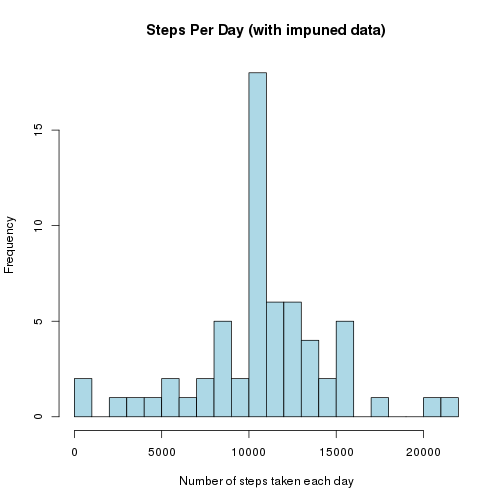
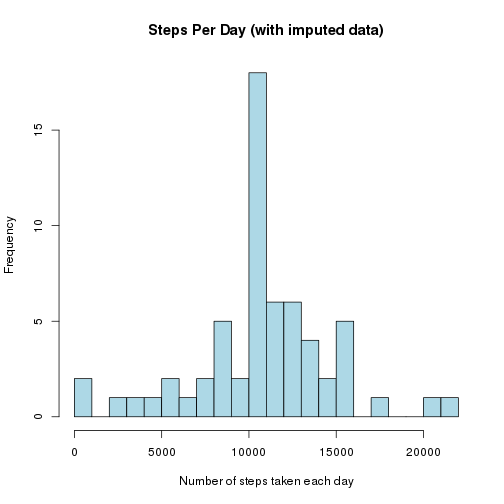
Fix typo

Changed region(s): [[0.2976, 0.0298, 0.7738, 0.0893]]

diff --git a/PA1_template.html b/PA1_template.html
@@ -265,39 +265,39 @@ plot(mean_melted_data$interval, mean_melted_data$steps, type=&quot;l&quot;,
 
 <p>I have chosen to use the previously-created mean_melted_data to fill in empty values. Each empty value will be filled in with the average value for that interval.</p>
 
-<pre><code class="r">activity_data_impuned &lt;- activity_data
-for (i in which(is.na(activity_data_impuned$steps)))
-  activity_data_impuned[i, 1] &lt;-
-    mean_melted_data[which(mean_melted_data[,1]==activity_data_impuned[i,3]),2]
+<pre><code class="r">activity_data_imputed &lt;- activity_data
+for (i in which(is.na(activity_data_imputed$steps)))
+  activity_data_imputed[i, 1] &lt;-
+    mean_melted_data[which(mean_melted_data[,1]==activity_data_imputed[i,3]),2]
 </code></pre>
 
-<pre><code class="r">melted_activity_data_impuned &lt;- melt(activity_data_impuned, id=c(&quot;date&quot;),
+<pre><code class="r">melted_activity_data_imputed &lt;- melt(activity_data_imputed, id=c(&quot;date&quot;),
                              measure.vars=(&quot;steps&quot;))
-sum_melted_data_impuned &lt;- dcast(melted_activity_data_impuned, date~variable, sum)
-hist(sum_melted_data_impuned$steps, breaks=25, main=&quot;Steps Per Day (with impuned data)&quot;,
+sum_melted_data_imputed &lt;- dcast(melted_activity_data_imputed, date~variable, sum)
+hist(sum_melted_data_imputed$steps, breaks=25, main=&quot;Steps Per Day (with imputed data)&quot;,
      xlab=&quot;Number of steps taken each day&quot;, col=&quot;lightblue&quot;)
 </code></pre>
 
[2 lines of base64/hex data omitted]
 
-<pre><code class="r">steps_per_day_mean_impuned &lt;- format(mean(sum_melted_data_impuned$steps), digits=8)
-steps_per_day_median_impuned &lt;- format(median(sum_melted_data_impuned$steps), digits=8)
+<pre><code class="r">steps_per_day_mean_imputed &lt;- format(mean(sum_melted_data_imputed$steps), digits=8)
+steps_per_day_median_imputed &lt;- format(median(sum_melted_data_imputed$steps), digits=8)
 </code></pre>
 
 <p>Mean of the total number of steps taken per day: 10766.189</p>
 
 <p>Median of the total number of steps taken per day: 10766.189</p>
 
-<p>By adding impuned data, the mean number of steps per day remained the same, while the median became equal to the mean.</p>
+<p>By adding imputed data, the mean number of steps per day remained the same, while the median became equal to the mean.</p>
 
 <h2>Are there differences in activity patterns between weekdays and weekends?</h2>
 
 <p>Create a new factor variable in the dataset with two levels – “weekday” and “weekend” indicating whether a given date is a weekday or weekend day.</p>
 
-<pre><code class="r">activity_data_impuned$day &lt;- ifelse(grepl(&quot;Sat|Sun&quot;, weekdays(as.Date(activity_data_impuned$date), abbreviate=TRUE)), &quot;weekend&quot;, &quot;weekday&quot;)
+<pre><code class="r">activity_data_imputed$day &lt;- ifelse(grepl(&quot;Sat|Sun&quot;, weekdays(as.Date(activity_data_imputed$date), abbreviate=TRUE)), &quot;weekend&quot;, &quot;weekday&quot;)
 </code></pre>
 
-<pre><code class="r">melted_activity_data_day &lt;- melt(activity_data_impuned, id=c(&quot;interval&quot;, &quot;day&quot;), measure.vars=(&quot;steps&quot;))
+<pre><code class="r">melted_activity_data_day &lt;- melt(activity_data_imputed, id=c(&quot;interval&quot;, &quot;day&quot;), measure.vars=(&quot;steps&quot;))
 mean_melted_data_day &lt;- dcast(melted_activity_data_day, interval~day, mean)
 plot.par &lt;- par(mfrow=c(2,1))
 plot(mean_melted_data_day$interval, mean_melted_data_day$weekday, type=&quot;l&quot;, main=&quot;Average Weekday Activity&quot;, xlab=&quot;&quot;, ylab=&quot;Average number of steps taken&quot;)

diff --git a/PA1_template.md b/PA1_template.md
@@ -82,33 +82,33 @@ I have chosen to use the previously-created mean_melted_data to fill in empty va
 
 
 ```r
-activity_data_impuned <- activity_data
-for (i in which(is.na(activity_data_impuned$steps)))
-  activity_data_impuned[i, 1] <-
-    mean_melted_data[which(mean_melted_data[,1]==activity_data_impuned[i,3]),2]
+activity_data_imputed <- activity_data
+for (i in which(is.na(activity_data_imputed$steps)))
+  activity_data_imputed[i, 1] <-
+    mean_melted_data[which(mean_melted_data[,1]==activity_data_imputed[i,3]),2]
 ```
 
 
 ```r
-melted_activity_data_impuned <- melt(activity_data_impuned, id=c("date"),
+melted_activity_data_imputed <- melt(activity_data_imputed, id=c("date"),
                              measure.vars=("steps"))
-sum_melted_data_impuned <- dcast(melted_activity_data_impuned, date~variable, sum)
-hist(sum_melted_data_impuned$steps, breaks=25, main="Steps Per Day (with impuned data)",
+sum_melted_data_imputed <- dcast(melted_activity_data_imputed, date~variable, sum)
+hist(sum_melted_data_imputed$steps, breaks=25, main="Steps Per Day (with imputed data)",
      xlab="Number of steps taken each day", col="lightblue")
 ```
 
 ![plot of chunk unnamed-chunk-6](figure/unnamed-chunk-6-1.png) 
 
 ```r
-steps_per_day_mean_impuned <- format(mean(sum_melted_data_impuned$steps), digits=8)
-steps_per_day_median_impuned <- format(median(sum_melted_data_impuned$steps), digits=8)
+steps_per_day_mean_imputed <- format(mean(sum_melted_data_imputed$steps), digits=8)
+steps_per_day_median_imputed <- format(median(sum_melted_data_imputed$steps), digits=8)
 ```
 
 Mean of the total number of steps taken per day: 10766.189
 
 Median of the total number of steps taken per day: 10766.189
 
-By adding impuned data, the mean number of steps per day remained the same, while the median became equal to the mean.
+By adding imputed data, the mean number of steps per day remained the same, while the median became equal to the mean.
 
 
 ## Are there differences in activity patterns between weekdays and weekends?
@@ -117,12 +117,12 @@ Create a new factor variable in the dataset with two levels – “weekday” an
 
 
 ```r
-activity_data_impuned$day <- ifelse(grepl("Sat|Sun", weekdays(as.Date(activity_data_impuned$date), abbreviate=TRUE)), "weekend", "weekday")
+activity_data_imputed$day <- ifelse(grepl("Sat|Sun", weekdays(as.Date(activity_data_imputed$date), abbreviate=TRUE)), "weekend", "weekday")
 ```
 
 
 ```r
-melted_activity_data_day <- melt(activity_data_impuned, id=c("interval", "day"), measure.vars=("steps"))
+melted_activity_data_day <- melt(activity_data_imputed, id=c("interval", "day"), measure.vars=("steps"))
 mean_melted_data_day <- dcast(melted_activity_data_day, interval~day, mean)
 plot.par <- par(mfrow=c(2,1))
 plot(mean_melted_data_day$interval, mean_melted_data_day$weekday, type="l", main="Average Weekday Activity", xlab="", ylab="Average number of steps taken")
